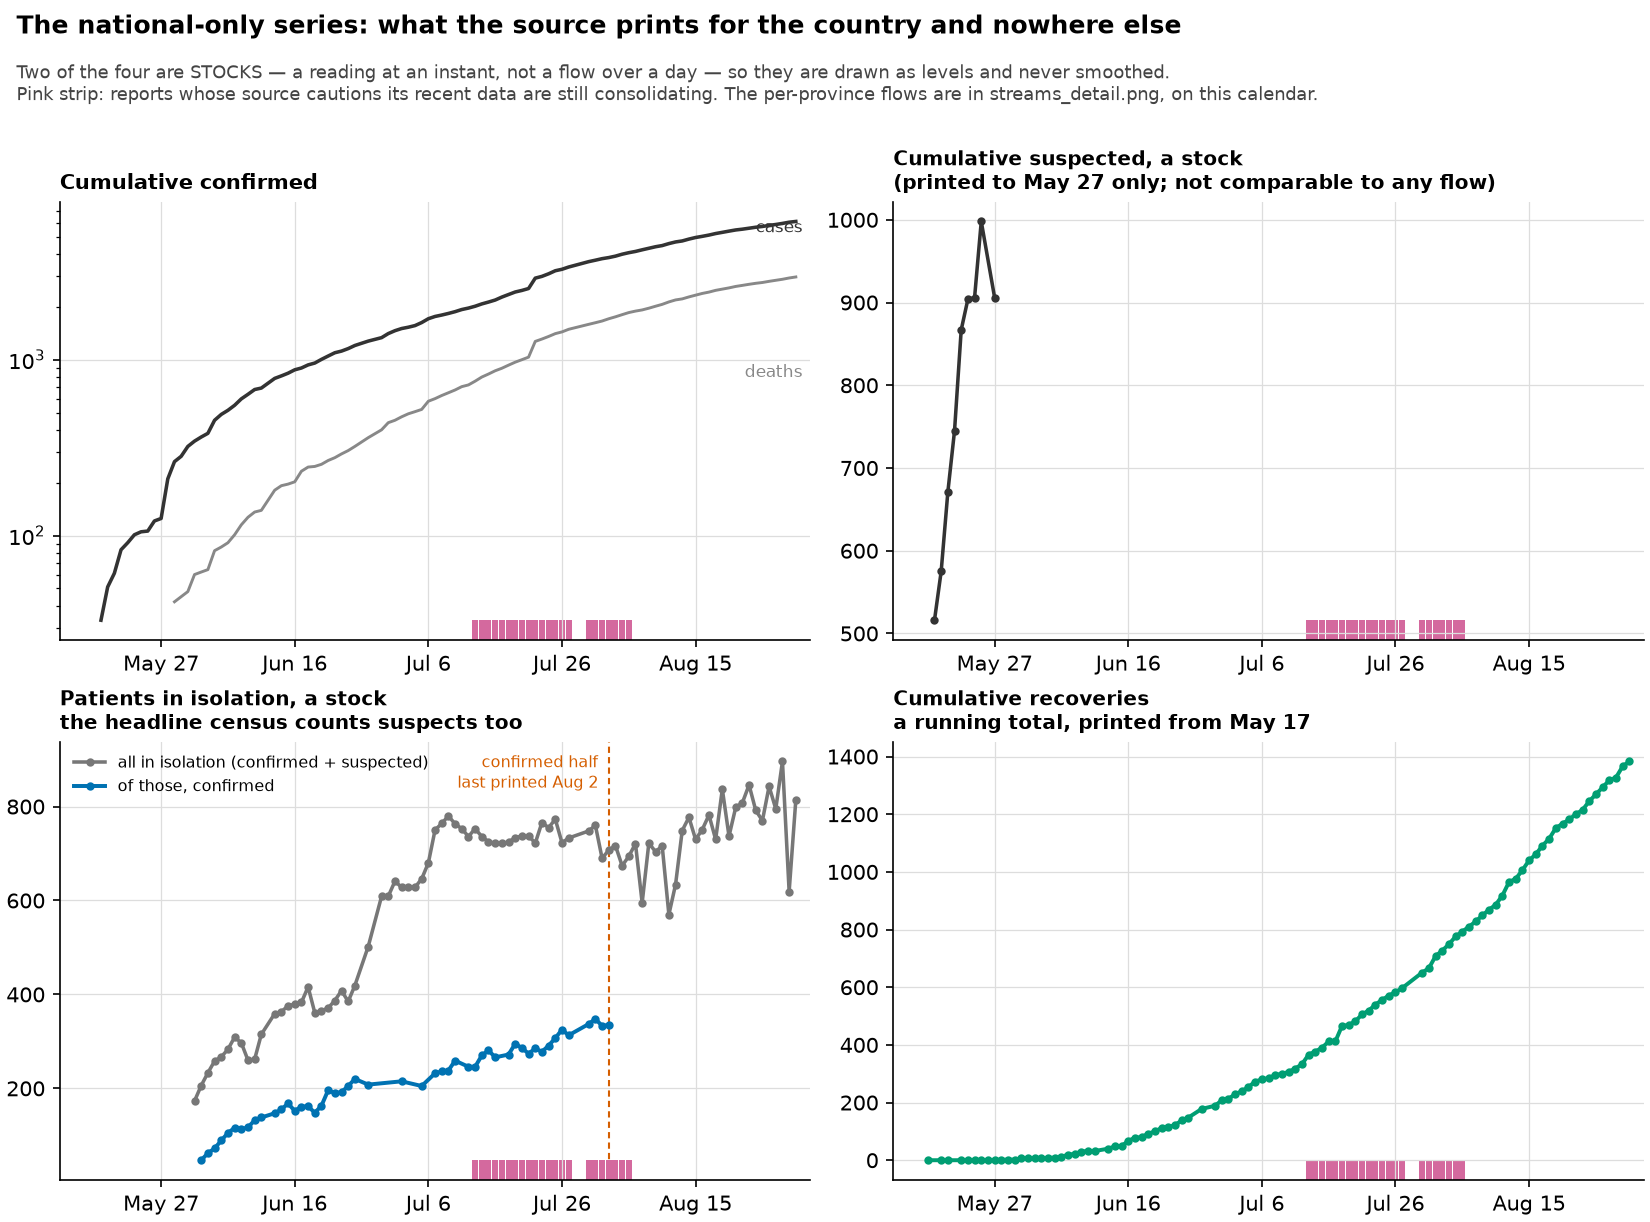
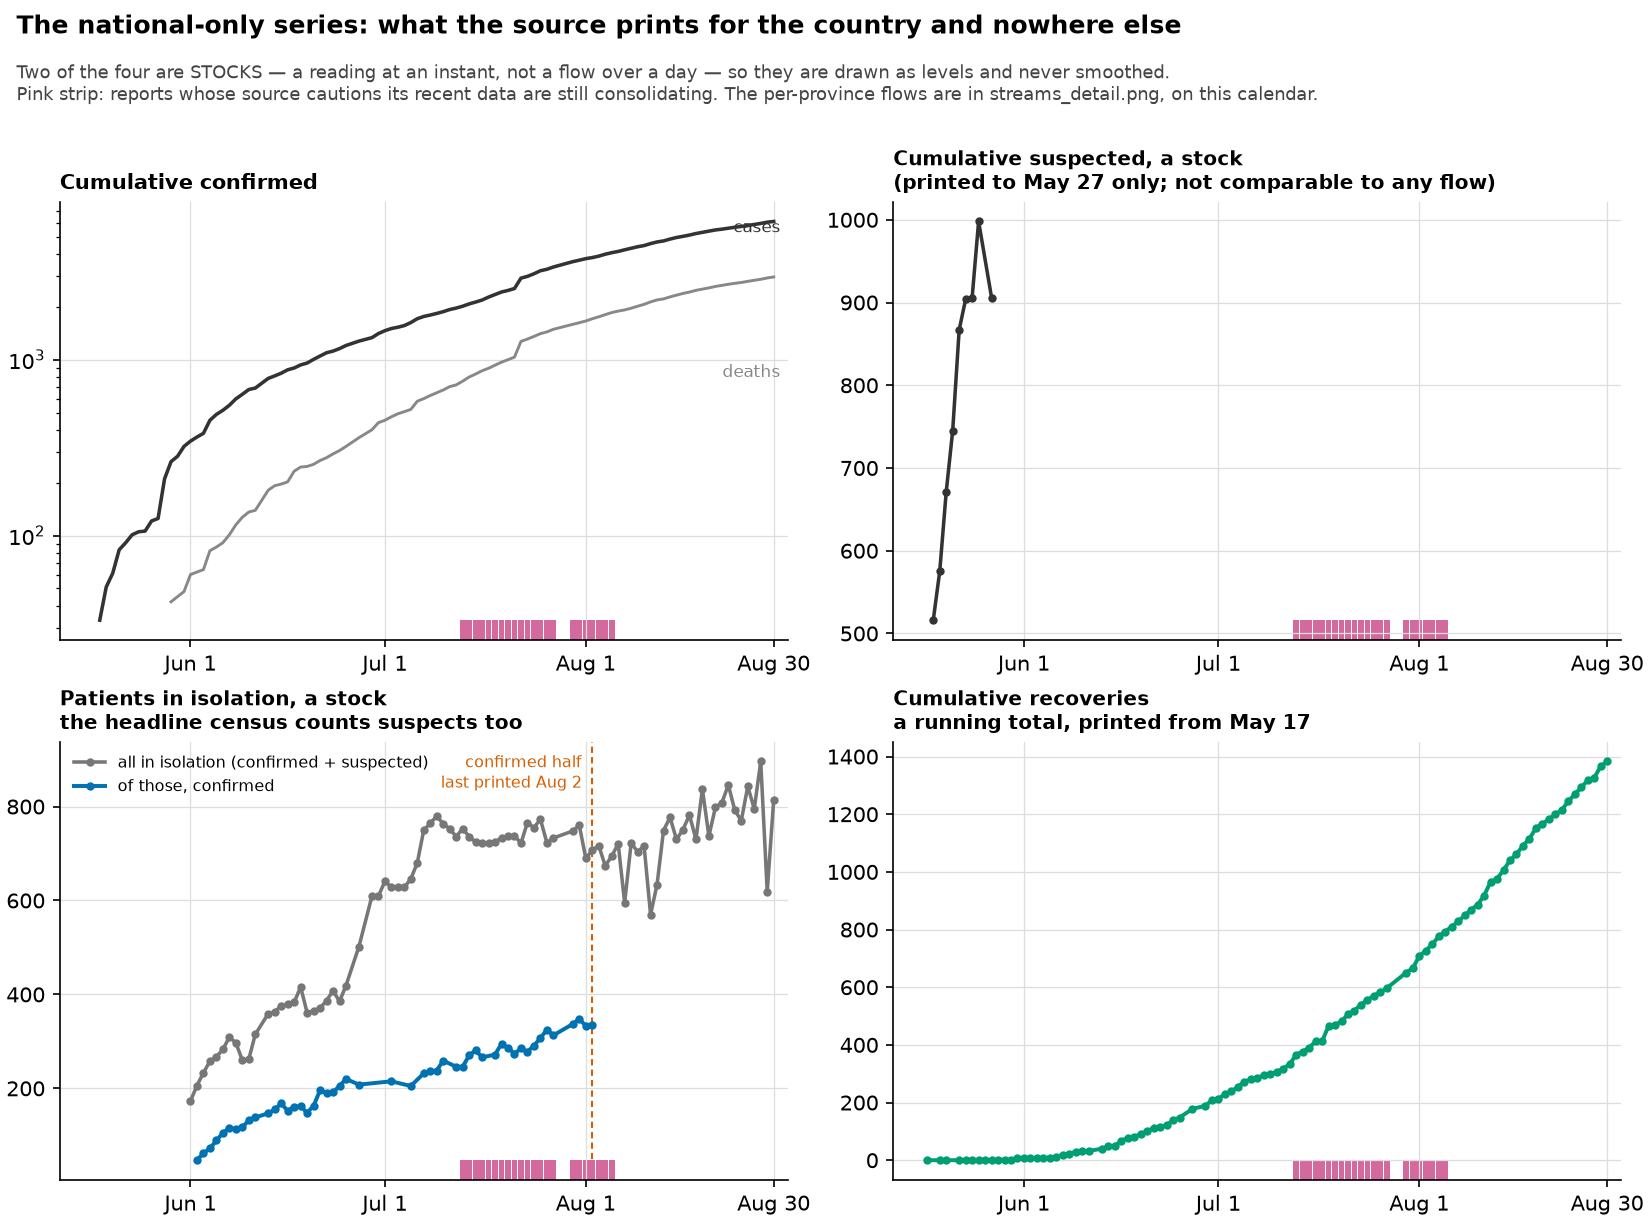
figures: label the last report on the report-day axis
The x axis had no tick near the end. Left to matplotlib the locator picks a
round interval and stops where it lands -- 20 days here, last tick 15 August
against data running to the 30th -- so the final fortnight carried points and
no label, and a reader could not tell where the series ended or whether the
figure was current.

Fixing it naively made it worse: the axis is padded 2% past the data, which is
enough for a month locator to emit `Sep 1` on an archive ending 30 August. A
labelled date with nothing under it is worse than an unlabelled one, so ticks
now stop at the last report and that report is always one of them. Nothing
beyond it is labelled, because nothing beyond it is known.

Applies to streams_detail and national_detail, which share the calendar.

Claude-Session: https://claude.ai/code/session_015tkmBJ2UNKTmshByKopqW2

diff --git a/scripts/plot_figures.py b/scripts/plot_figures.py
@@ -89,7 +89,7 @@ from matplotlib.lines import Line2D
 from matplotlib.path import Path as MplPath
 from matplotlib.patches import PathPatch
 from matplotlib.patches import Patch
-from matplotlib.ticker import MaxNLocator, MultipleLocator
+from matplotlib.ticker import FixedLocator, MaxNLocator, MultipleLocator
 
 #: Fixed identity -> colour, in outbreak-size order. Colour follows the
 #: province, never its rank in any particular chart.
@@ -151,6 +151,33 @@ def _report_calendar(caveat: pl.DataFrame) -> tuple[float, float]:
     lo, hi = min(xs), max(xs)
     pad = 0.02 * (hi - lo)
     return lo - pad, hi + pad
+
+
+def _report_ticks(ax, caveat: pl.DataFrame) -> None:
+    """Month starts up to the last report the archive holds, and that report.
+
+    Two failures this avoids, both seen on this figure. Left to matplotlib the
+    locator picks a round interval and stops where it lands -- 20 days here,
+    last tick 15 August against data running to the 30th -- so the final
+    fortnight carries points and no label and a reader cannot tell where the
+    series ends. And the axis is padded 2% past the data, which is enough for a
+    month locator to emit `Sep 1` on an archive ending 30 August: a labelled
+    date with nothing under it, which is worse than an unlabelled one.
+
+    So ticks stop at the last report, and the last report is always one of
+    them. It is the date a reader most wants named on this axis -- it says how
+    current the figure is -- and nothing beyond it is labelled, because nothing
+    beyond it is known.
+    """
+    lo, hi = ax.get_xlim()
+    last = max(_dates(caveat["date"]))
+    months = [t for t in mdates.MonthLocator().tick_values(
+        mdates.num2date(lo), mdates.num2date(hi)) if lo <= t <= last]
+    # A month start within a few days of the end would collide with it; the
+    # end wins, because it carries more information.
+    ticks = [t for t in months if abs(last - t) > 5] + [last]
+    ax.xaxis.set_major_locator(FixedLocator(sorted(ticks)))
+    ax.xaxis.set_major_formatter(mdates.DateFormatter("%b %-d"))
 
 
 def draw_availability(inputs: dict[str, Path], out: Path) -> None:
@@ -1905,6 +1932,7 @@ def draw_streams_detail(inputs: dict[str, Path], out: Path) -> None:
     xlim = _report_calendar(caveat)
     for a in all_axes:
         a.set_xlim(xlim)
+        _report_ticks(a, caveat)
 
     _header(fig, "Every extracted flow, by province",
             "Grey points: one observation per report, at its reporting date. "
@@ -2054,6 +2082,7 @@ def draw_national_detail(inputs: dict[str, Path], out: Path) -> None:
     # one figure stay readable against each other.
     for a in (axn, axs2, axi, axr):
         a.set_xlim(_report_calendar(caveat))
+        _report_ticks(a, caveat)
 
     _header(fig, "The national-only series: what the source prints for the "
                  "country and nowhere else",
